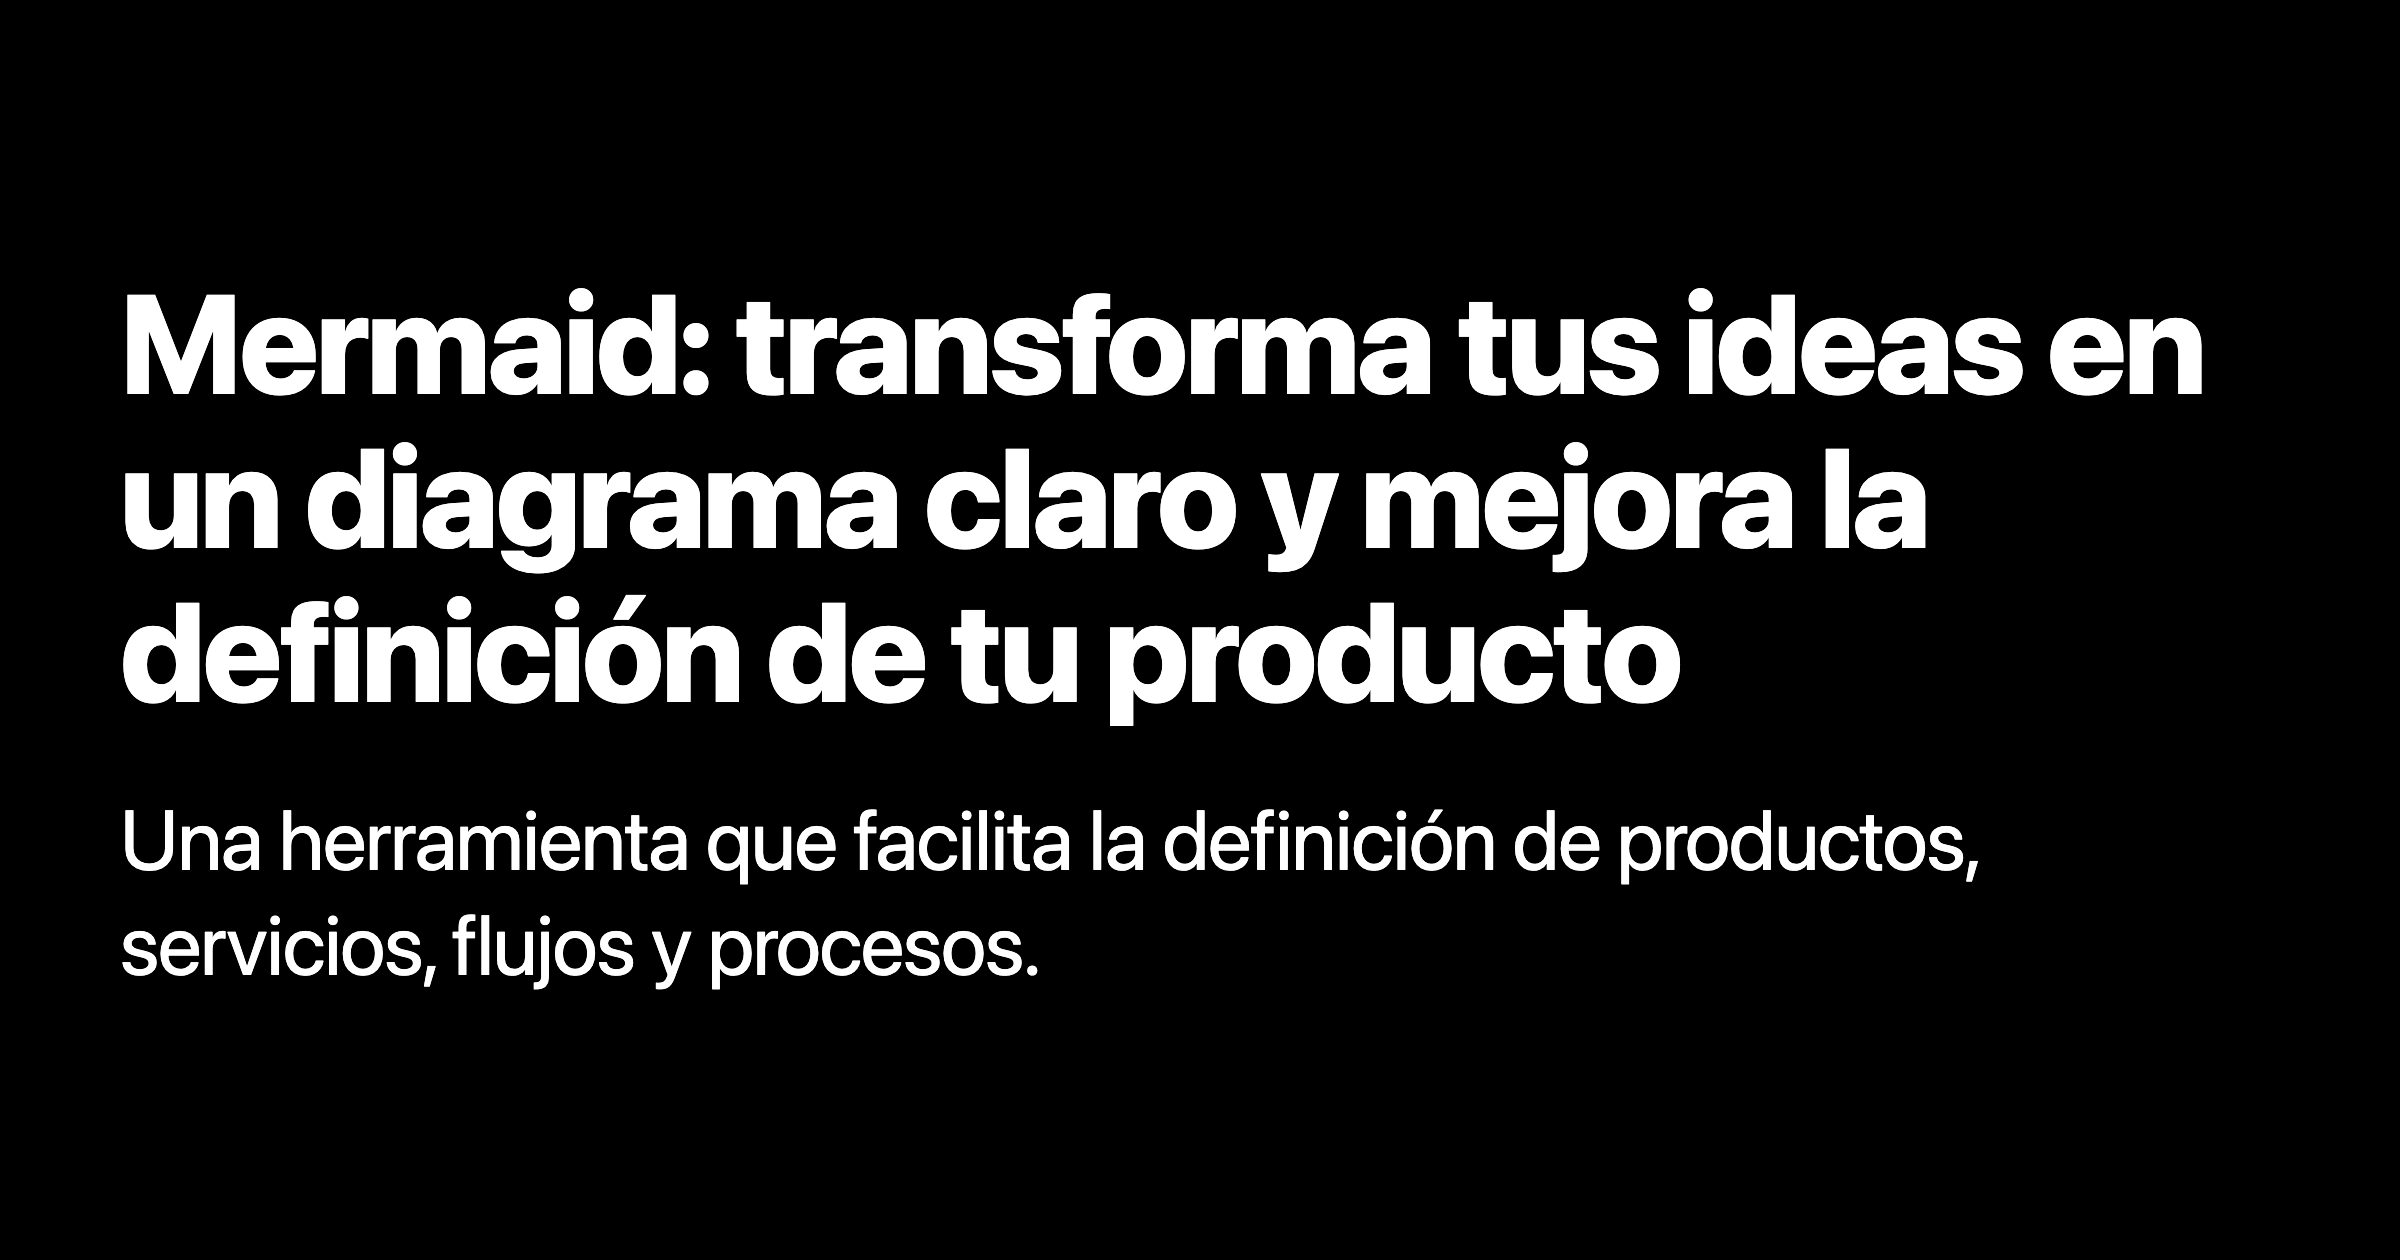
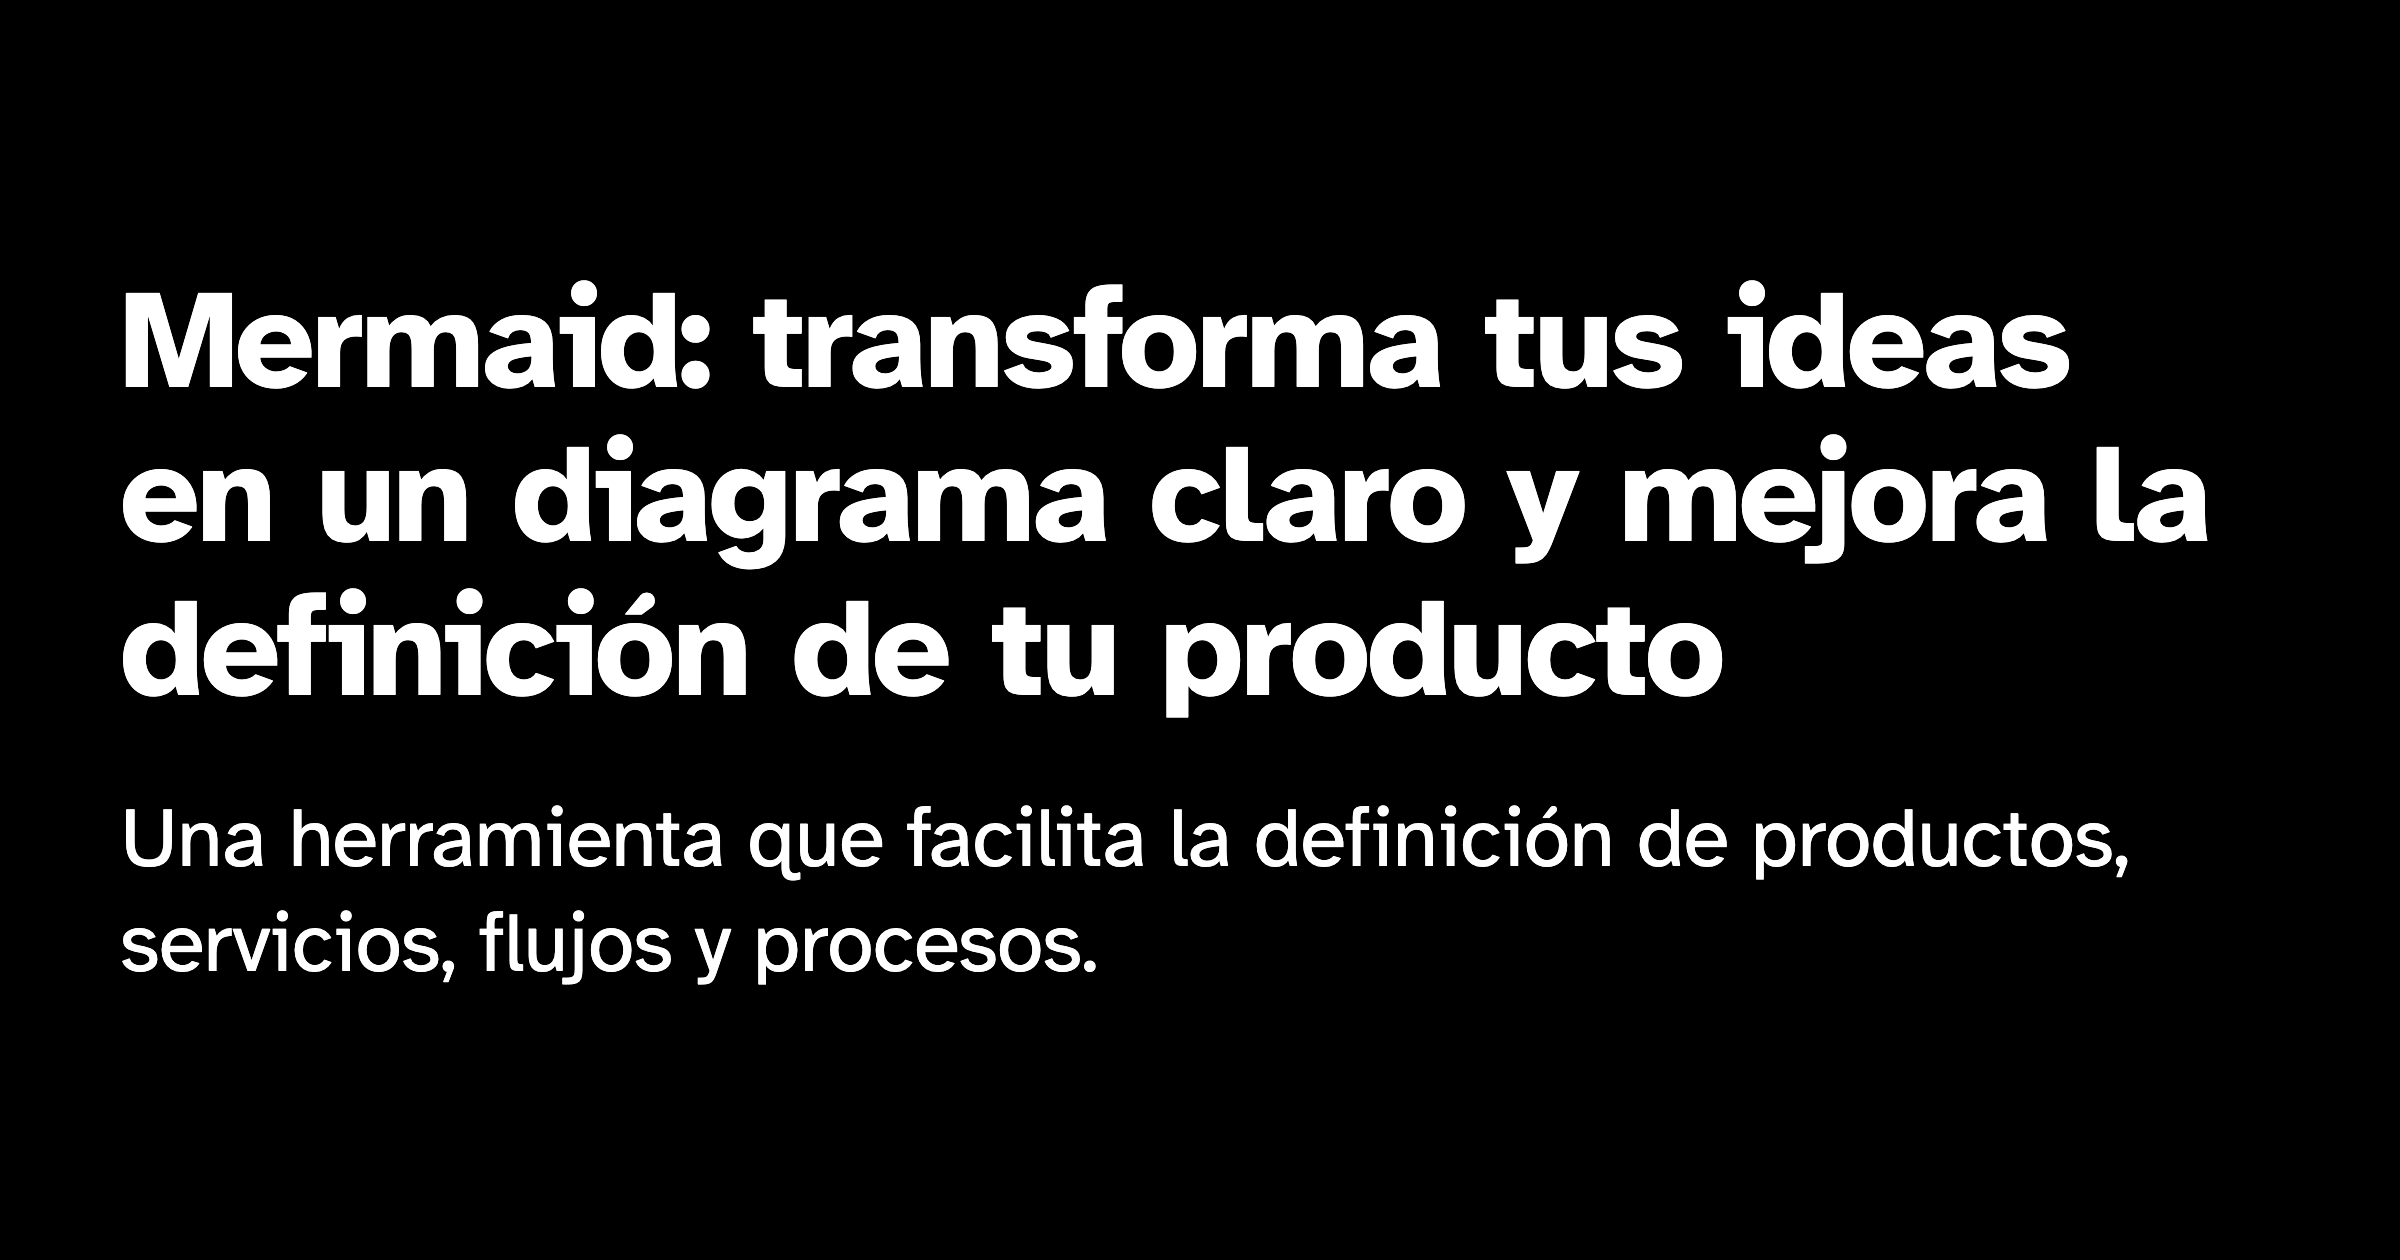
feat(og-images): mejorar generador con detección automática de Chrome y fuente Atkinson Hyperlegible
- Agregar detección automática de Chrome/Chromium para macOS, Linux y Windows
- Implementar fuente Atkinson Hyperlegible en las OG images para mejor legibilidad
- Crear pre-commit hook con Husky para generar OG images automáticamente
- Actualizar generador para agregar cover.image al frontmatter (compatibilidad PaperMod)
- Generar nuevas OG images para posts existentes con el diseño mejorado

🤖 Generated with [Claude Code](https://claude.ai/code)

Changed region(s): [[0.0312, 0.3405, 0.9375, 0.5881], [0.0312, 0.619, 0.875, 0.8048], [0.0625, 0.2167, 0.9375, 0.3095]]

diff --git a/scripts/generate-og-images.ts b/scripts/generate-og-images.ts
@@ -3,6 +3,7 @@ import path from 'path';
 import crypto from 'crypto';
 import puppeteer from 'puppeteer';
 import { fileURLToPath } from 'url';
+import os from 'os';
 
 const __dirname = path.dirname(fileURLToPath(import.meta.url));
 
@@ -46,6 +47,44 @@ function saveCache(cache: Cache): void {
   } catch (error) {
     console.error('Error al guardar el caché:', error);
   }
+}
+
+// Función para detectar Chrome/Chromium automáticamente
+function findChrome(): string | undefined {
+  const platform = os.platform();
+  
+  const possiblePaths = {
+    darwin: [
+      '/Applications/Google Chrome.app/Contents/MacOS/Google Chrome',
+      '/Applications/Chromium.app/Contents/MacOS/Chromium',
+    ],
+    linux: [
+      '/usr/bin/google-chrome',
+      '/usr/bin/google-chrome-stable',
+      '/usr/bin/chromium',
+      '/usr/bin/chromium-browser',
+      '/snap/bin/chromium',
+    ],
+    win32: [
+      'C:\\Program Files\\Google\\Chrome\\Application\\chrome.exe',
+      'C:\\Program Files (x86)\\Google\\Chrome\\Application\\chrome.exe',
+      process.env.LOCALAPPDATA + '\\Google\\Chrome\\Application\\chrome.exe',
+      process.env.PROGRAMFILES + '\\Google\\Chrome\\Application\\chrome.exe',
+      process.env['PROGRAMFILES(X86)'] + '\\Google\\Chrome\\Application\\chrome.exe'
+    ]
+  };
+  
+  const paths = possiblePaths[platform as keyof typeof possiblePaths] || [];
+  
+  for (const chromePath of paths) {
+    if (chromePath && fs.existsSync(chromePath)) {
+      console.log(`✅ Chrome encontrado en: ${chromePath}`);
+      return chromePath;
+    }
+  }
+  
+  console.warn('⚠ No se pudo encontrar Chrome/Chromium. Usando el navegador incluido con Puppeteer.');
+  return undefined;
 }
 
 // Función para extraer el frontmatter
@@ -124,9 +163,11 @@ async function generateOGImage(title: string, description: string, outputPath: s
   while (retryCount < maxRetries) {
     let browser;
     try {
+      const chromePath = findChrome();
+      
       browser = await puppeteer.launch({
         headless: true,
-        executablePath: '/Applications/Google Chrome.app/Contents/MacOS/Google Chrome',
+        executablePath: chromePath,
         args: [
           '--no-sandbox',
           '--disable-setuid-sandbox',
@@ -149,6 +190,9 @@ async function generateOGImage(title: string, description: string, outputPath: s
         <html>
           <head>
             <meta charset="UTF-8">
+            <link rel="preconnect" href="https://fonts.googleapis.com">
+            <link rel="preconnect" href="https://fonts.gstatic.com" crossorigin>
+            <link href="https://fonts.googleapis.com/css2?family=Atkinson+Hyperlegible:ital,wght@0,400;0,700;1,400;1,700&display=swap" rel="stylesheet">
             <style>
               body {
                 margin: 0;
@@ -156,7 +200,7 @@ async function generateOGImage(title: string, description: string, outputPath: s
                 width: 2400px;
                 height: 1260px;
                 background: #000000;
-                font-family: -apple-system, BlinkMacSystemFont, 'Segoe UI', Roboto, Oxygen, Ubuntu, Cantarell, 'Open Sans', 'Helvetica Neue', sans-serif;
+                font-family: 'Atkinson Hyperlegible', -apple-system, BlinkMacSystemFont, 'Segoe UI', Roboto, Oxygen, Ubuntu, Cantarell, 'Open Sans', 'Helvetica Neue', sans-serif;
                 display: flex;
                 flex-direction: column;
                 justify-content: center;
@@ -270,6 +314,15 @@ async function main(): Promise<void> {
       if (success) {
         cache[slug] = currentHash;
         hasChanges = true;
+        
+        // Actualizar el frontmatter con la imagen OG si no tiene cover.image
+        if (!content.includes('[cover]') && !content.includes('cover.image')) {
+          const updatedContent = content.replace(/(\+\+\+[\s\S]*?)(\+\+\+)/, (match, frontmatter, closing) => {
+            return frontmatter.trimEnd() + '\n[cover]\nimage = "/images/og/' + slug + '.png"\nhidden = true\n' + closing;
+          });
+          fs.writeFileSync(filePath, updatedContent);
+          console.log(`📝 Actualizado frontmatter con cover.image para: ${slug}`);
+        }
       }
     } else {
       console.log(`⏭ Omitiendo ${frontMatter.title}: No hay cambios detectados`);

diff --git a/content/posts/9punto5-2025.md b/content/posts/9punto5-2025.md
@@ -5,6 +5,9 @@ date = 2025-06-03
 draft = false
 categories = ["cultura"]
 tags = ["9punto5", "inteligencia artificial"]
+[cover]
+image = "/images/og/9punto5-2025.png"
+hidden = true
 +++
 En un mundo donde la avalancha de información sobre IA genera parálisis y ansiedad, donde los gurús prometen revoluciones instantáneas y los apocalípticos siembran el miedo, 9punto5 2025 ofrece algo diferente: un espacio de encuentro, reflexión y acción.
 
